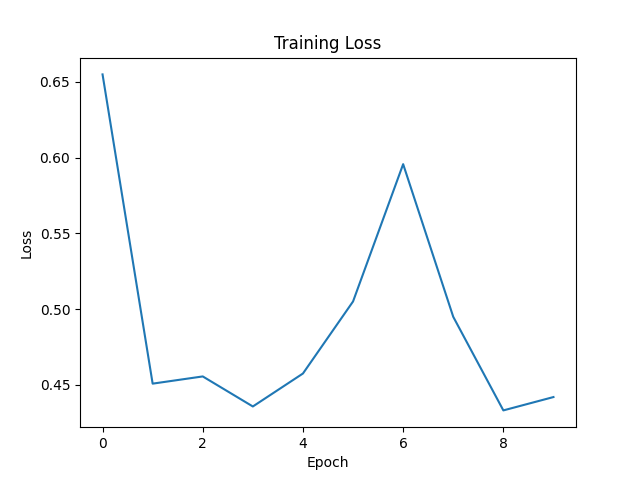
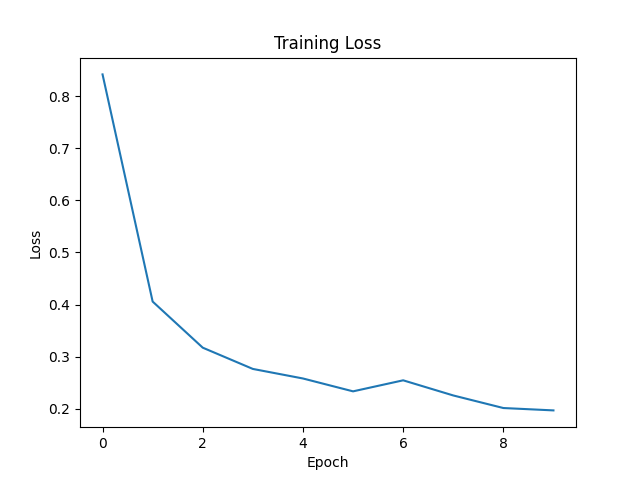
Optimize batch size for train and test loaders

diff --git a/train/main.py b/train/main.py
@@ -2,7 +2,7 @@
 Author: hibana2077 hibana2077@gmail.com
 Date: 2024-05-20 15:37:01
 LastEditors: hibana2077 hibana2077@gmail.com
-LastEditTime: 2024-05-20 16:47:36
+LastEditTime: 2024-05-20 17:08:05
 FilePath: \Muffin-vs-chihuahua\train\main.py
 Description: 这是默认设置,请设置`customMade`, 打开koroFileHeader查看配置 进行设置: https://github.com/OBKoro1/koro1FileHeader/wiki/%E9%85%8D%E7%BD%AE/
 '''
@@ -37,8 +37,8 @@ test_transform = transforms.Compose([
 train_dataset = ImageFolder(train_data_dir, transform=train_transform)
 test_dataset = ImageFolder(test_data_dir, transform=test_transform)
 
-train_loader = DataLoader(train_dataset, batch_size=8, shuffle=True)
-test_loader = DataLoader(test_dataset, batch_size=8, shuffle=False)
+train_loader = DataLoader(train_dataset, batch_size=32, shuffle=True)
+test_loader = DataLoader(test_dataset, batch_size=32, shuffle=False)
 
 dummy_input = torch.randn(1, 3, 224, 224)
 
